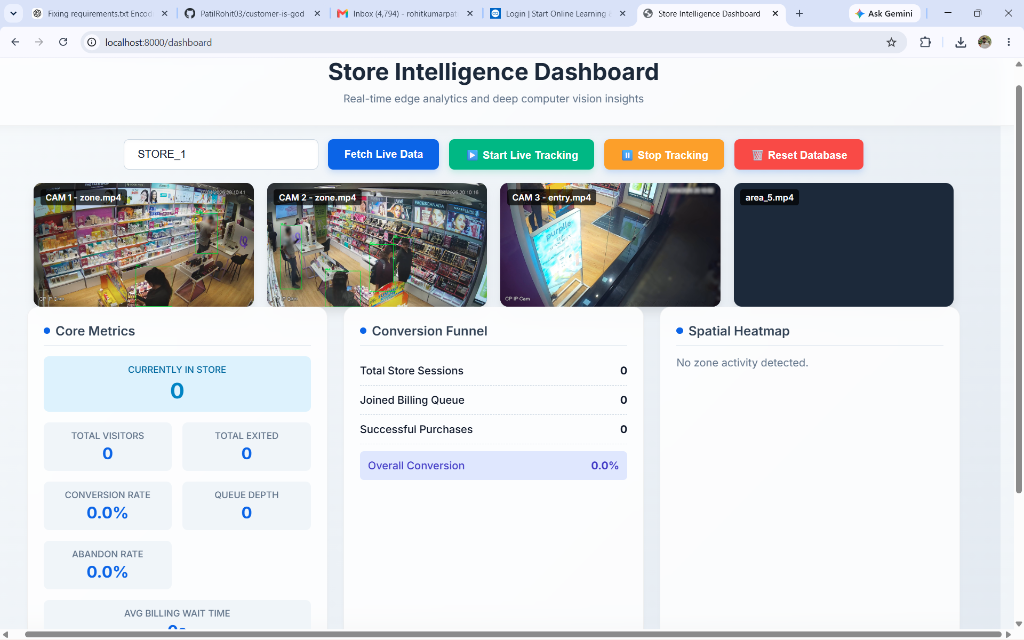
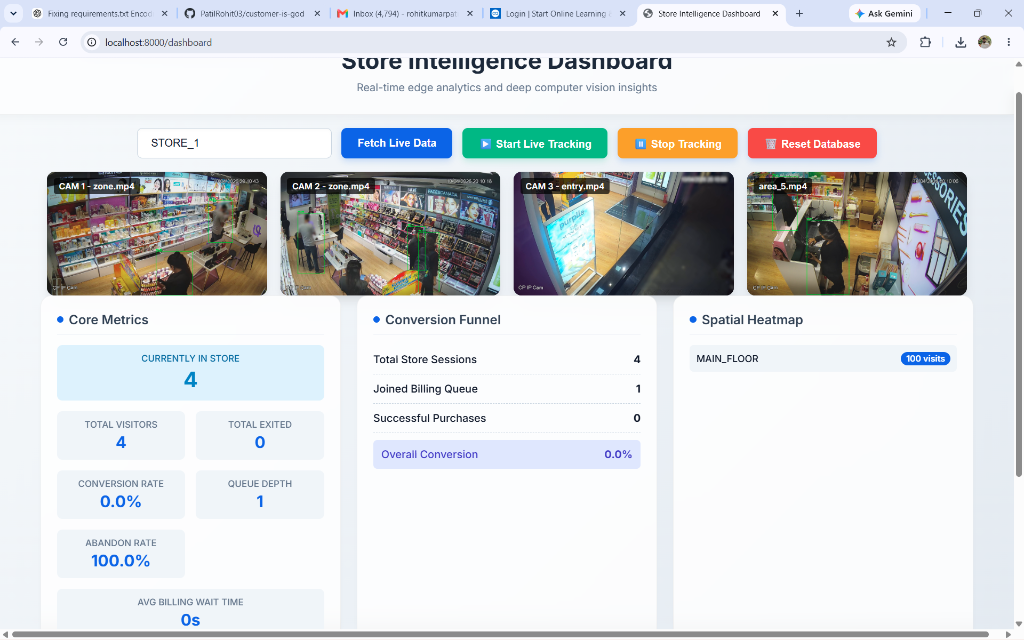
finalized project and added documentation with screenshots

diff --git a/src/app/frontend.py b/src/app/frontend.py
@@ -257,6 +257,9 @@ async def dashboard():
     }
 
     async function startTracking() {
+      // Force kill any hanging MJPEG streams from the previous store
+      window.stop();
+
       const storeId = document.getElementById('storeId').value.trim();
       const container = document.getElementById('videoContainer');
       container.innerHTML = '<div style="color:var(--text-muted);">Initializing AI models...</div>';
@@ -286,7 +289,9 @@ async def dashboard():
       }
 
       function stopTracking() {
+        window.stop();
         const container = document.getElementById('videoContainer');
+        container.querySelectorAll('img').forEach(img => { img.src = ''; });
         container.innerHTML = '';
         if (pollInterval) clearInterval(pollInterval);
         pollInterval = null;
@@ -298,9 +303,7 @@ async def dashboard():
           const res = await fetch('/api/reset_db', { method: 'POST' });
           if (!res.ok) throw new Error(res.statusText);
           alert('Database reset successfully!');
-          document.getElementById('metrics').innerHTML = 'Cleared';
-          document.getElementById('funnel').innerHTML = 'Cleared';
-          document.getElementById('heatmap').innerHTML = 'Cleared';
+          refresh();
         } catch (err) {
           alert('Failed to reset DB: ' + err.message);
         }

diff --git a/src/app/main.py b/src/app/main.py
@@ -27,6 +27,12 @@ logger.addHandler(ch)
 async def lifespan(app: FastAPI):
     try:
         init_db()
+        print("\n" + "="*60)
+        print("🚀 STORE INTELLIGENCE SYSTEM IS LIVE!")
+        print("="*60)
+        print("👉 Live Dashboard: http://localhost:8000/dashboard")
+        print("👉 API Docs:       http://localhost:8000/docs")
+        print("="*60 + "\n")
     except Exception as e:
         logger.error(f"DB Init error: {e}")
     yield

diff --git a/README.md b/README.md
@@ -22,10 +22,10 @@ cd customer-is-god
 # 3. Install pipeline dependencies locally
 pip install -r requirements.txt
 
-# 4. Start the FastAPI Backend & SQLite Database in Docker
-docker compose up --build -d
+# 4. Start the FastAPI Backend & SQLite Database in Docker (attached mode to see the dashboard links)
+docker compose up --build
 
-# 5. Run the offline CV detection pipeline against the raw clips
+# 5. Open a NEW terminal window, then run the offline CV detection pipeline against the raw clips
 python -m src.pipeline.run --store-id STORE_1 --resource-dir "data/resource"
 
 # 6. Ingest the generated events into the database
@@ -49,7 +49,7 @@ We built a beautiful, real-time web dashboard to visualize the conversion funnel
 ![Live Dashboard - Store 1](assets/dashboard.png)
 ![Live Dashboard - Store 2](assets/dashboard_store2.png)
 
-**When will it appear?** As soon as `docker compose up --build -d` finishes starting the container, the backend is instantly running. There is no waiting! 
+**When will it appear?** As soon as `docker compose up --build` finishes starting the container, the backend is instantly running. There is no waiting! 
 Simply open your web browser and navigate to:
 👉 **[http://localhost:8000/dashboard](http://localhost:8000/dashboard)**
 
@@ -190,6 +190,5 @@ All outputs were reviewed, heavily tested, and modified before integration.
 
 ## Troubleshooting
 
-- **Browser Limitations:** Browsers only let you open 6 video streams at once. When hot-swapping stores on the live dashboard, press F5 (refresh) to clear the browser's hanging MJPEG stream cache, otherwise the last video feed will appear black.
 - **Docker Network DNS Timeouts:** When running `docker compose up --build` for the first time on Windows, Docker can occasionally lose internet access. Restart the Docker Desktop app and re-run the build command.
 - **Adblocker Interference:** The pipeline configuration requires the checkout video to be named `area_5.mp4`. This specific filename was chosen because testing revealed that browser adblockers (like uBlock Origin) frequently block network streams containing the words "billing" or "checkout".
